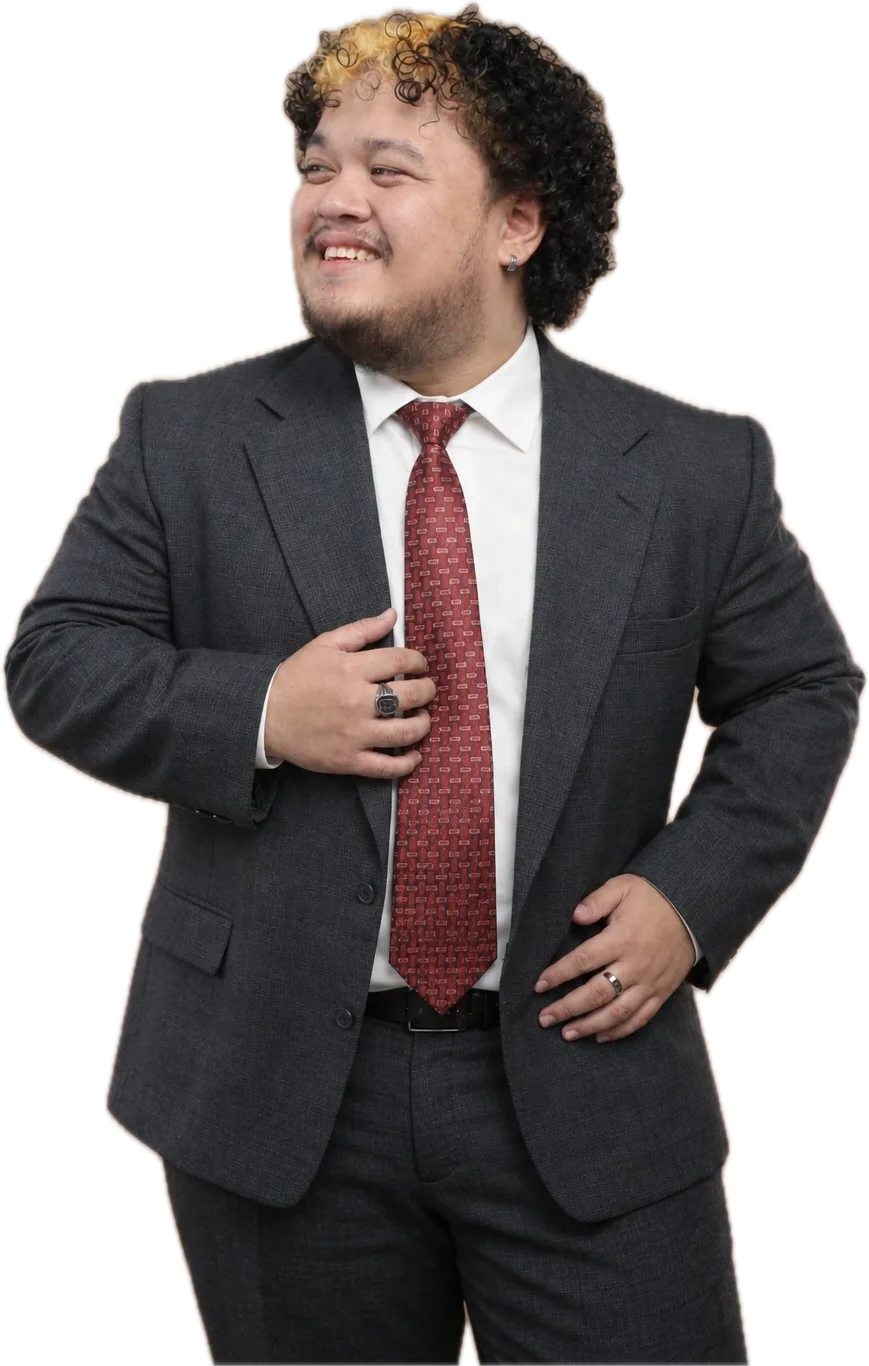
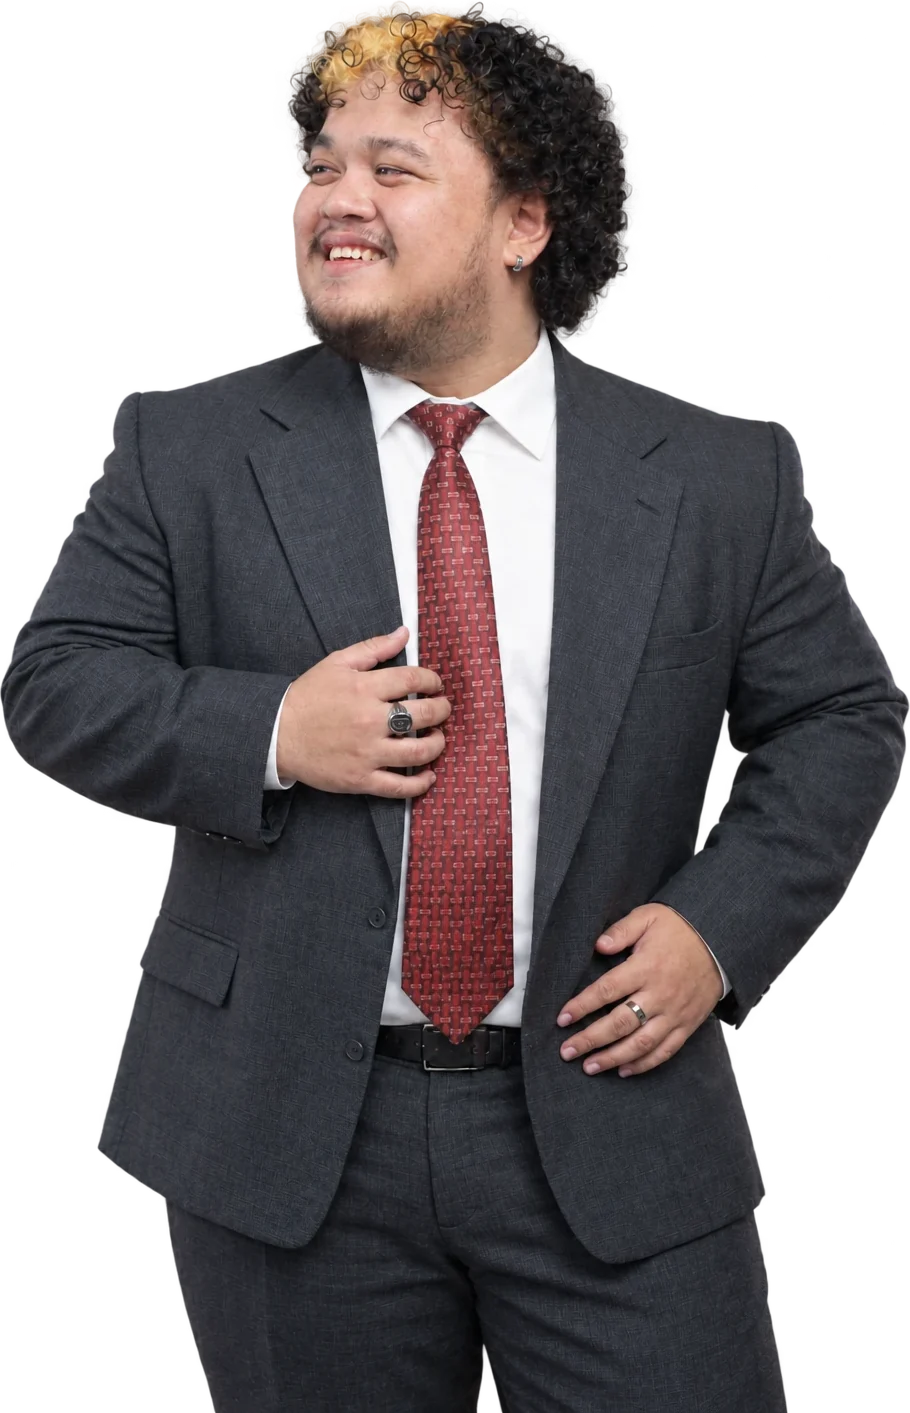
Use the new portrait and one sans-serif font throughout

diff --git a/style.css b/style.css
@@ -40,7 +40,7 @@ body {
 a { color: var(--accent); text-decoration: none; }
 a:hover { text-decoration: underline; }
 
-h1, h2, h3, h4 { font-family: "Cormorant Garamond", Georgia, serif; line-height: 1.15; }
+h1, h2, h3, h4 { font-weight: 600; line-height: 1.15; letter-spacing: -0.02em; }
 code { font-size: .88em; background: var(--tag-bg); padding: 1px 5px; border-radius: 4px; }
 
 /* ---------- Top bar ---------- */
@@ -57,7 +57,7 @@ code { font-size: .88em; background: var(--tag-bg); padding: 1px 5px; border-rad
   -webkit-backdrop-filter: blur(10px);
   border-color: var(--line);
 }
-.brand { font-family: "Cormorant Garamond", serif; font-weight: 700; font-size: 20px; letter-spacing: .12em; color: var(--text); }
+.brand { font-weight: 700; font-size: 15px; letter-spacing: .14em; color: var(--text); }
 .nav-links { display: flex; gap: 22px; font-size: 14px; font-weight: 500; }
 .nav-links a { color: var(--muted); }
 .nav-links a:hover { color: var(--accent); text-decoration: none; }
@@ -97,7 +97,7 @@ code { font-size: .88em; background: var(--tag-bg); padding: 1px 5px; border-rad
   animation: rise .9s .15s backwards;
 }
 .eyebrow { text-transform: uppercase; letter-spacing: .16em; font-size: 12px; color: var(--muted); margin: 0; }
-.hero h1 { font-size: clamp(48px, 7vw, 92px); margin: 10px 0 18px; font-weight: 700; }
+.hero h1 { font-size: clamp(42px, 5.6vw, 76px); margin: 12px 0 18px; font-weight: 700; letter-spacing: -0.04em; }
 .lede { font-size: 19px; color: var(--muted); max-width: 470px; margin: 0; }
 .hero-links { display: flex; flex-wrap: wrap; gap: 12px; margin-top: 30px; }
 .btn {
@@ -122,8 +122,8 @@ code { font-size: .88em; background: var(--tag-bg); padding: 1px 5px; border-rad
 /* ---------- Sections ---------- */
 section { padding: 80px 24px 40px; }
 .section-head { display: flex; align-items: baseline; gap: 14px; }
-.section-head h2 { font-size: 44px; margin: 0; }
-.num { color: var(--accent); font-family: "Cormorant Garamond", serif; font-size: 22px; letter-spacing: .1em; }
+.section-head h2 { font-size: 38px; margin: 0; letter-spacing: -0.03em; }
+.num { color: var(--accent); font-size: 14px; font-weight: 600; letter-spacing: .08em; font-variant-numeric: tabular-nums; }
 .section-note { color: var(--muted); margin: 10px 0 34px; max-width: 640px; }
 .hint-tap { display: none; }
 @media (hover: none) { .hint-hover { display: none; } .hint-tap { display: inline; } }
@@ -146,7 +146,7 @@ section { padding: 80px 24px 40px; }
 .card:hover, .card:focus-visible, .card.lit { border-color: var(--accent); transform: translateY(-3px); box-shadow: var(--shadow); }
 .icon { width: 40px; height: 40px; border-radius: 10px; background: var(--tag-bg); display: grid; place-items: center; margin-bottom: 16px; }
 .icon svg { width: 22px; height: 22px; fill: none; stroke: var(--accent); stroke-width: 1.6; stroke-linecap: round; stroke-linejoin: round; }
-.card h3 { font-size: 25px; margin: 0 0 6px; }
+.card h3 { font-size: 19px; margin: 0 0 6px; }
 .tagline { color: var(--muted); font-size: 15px; margin: 0 0 16px; }
 .card .detail { display: none; }
 
@@ -159,7 +159,7 @@ section { padding: 80px 24px 40px; }
   border: 1px solid var(--accent); border-radius: 16px;
   box-shadow: var(--shadow);
 }
-.peek h3, .modal h3 { font-size: 30px; margin: 0 0 4px; }
+.peek h3, .modal h3 { font-size: 23px; margin: 0 0 4px; }
 .peek p, .modal p { margin: 10px 0; font-size: 15px; }
 .peek ul, .modal ul { margin: 8px 0 14px; padding-left: 20px; font-size: 14.5px; }
 .peek li, .modal li { margin: 5px 0; }
@@ -191,7 +191,7 @@ section { padding: 80px 24px 40px; }
 .split { display: grid; grid-template-columns: 1fr 1fr; gap: 56px; align-items: center; margin-top: 40px; }
 .split + .split { margin-top: 110px; }
 .split.reverse .split-text { order: 2; }
-.kicker { font-size: 34px; margin: 0 0 14px; }
+.kicker { font-size: 26px; margin: 0 0 14px; }
 .split-text p { margin: 0 0 14px; }
 .list-intro { margin-top: 22px !important; font-weight: 600; }
 .now { padding-left: 20px; margin: 0; }
@@ -231,7 +231,7 @@ section { padding: 80px 24px 40px; }
 #vault-graph .hub circle { fill: var(--accent); }
 #vault-graph .subject circle { fill: var(--text); }
 #vault-graph text { fill: var(--muted); font: 500 11px Inter, sans-serif; text-anchor: middle; pointer-events: none; transition: fill .25s, opacity .25s; }
-#vault-graph .hub text { fill: var(--text); font: 700 15px "Cormorant Garamond", serif; }
+#vault-graph .hub text { fill: var(--text); font: 600 13px Inter, sans-serif; }
 #vault-graph .subject text { fill: var(--text); font-size: 12px; }
 #vault-graph g.node { cursor: pointer; }
 #vault-graph.focus g.node { opacity: .28; }
@@ -240,14 +240,14 @@ section { padding: 80px 24px 40px; }
 
 .interests { display: grid; grid-template-columns: repeat(3, 1fr); gap: 14px; margin-top: 30px; }
 .interests div { border-top: 2px solid var(--accent); padding-top: 8px; }
-.interests h4 { margin: 0; font-size: 19px; }
+.interests h4 { margin: 0; font-size: 14px; }
 .interests p { margin: 2px 0 0 !important; color: var(--muted); font-size: 13.5px; }
 
 /* ---------- Experience ---------- */
 .timeline { max-width: 720px; margin-top: 28px; }
 .timeline .item { border-left: 2px solid var(--line); padding: 0 0 24px 22px; position: relative; }
 .timeline .item::before { content: ""; position: absolute; left: -6px; top: 8px; width: 10px; height: 10px; border-radius: 50%; background: var(--accent); }
-.timeline h3 { font-size: 24px; margin: 0; }
+.timeline h3 { font-size: 18px; margin: 0; }
 .timeline .meta { color: var(--muted); font-size: 14px; margin: 2px 0 0; }
 .timeline p { margin: 6px 0 0; }
 .roles { margin: 8px 0 0; padding-left: 20px; }
@@ -268,13 +268,13 @@ footer { border-top: 1px solid var(--line); margin-top: 60px; padding: 28px 0 40
   .nav-links { gap: 14px; font-size: 13px; }
   .hero-stage { grid-template-columns: 1fr; grid-template-rows: 52vh auto; gap: 8px; padding: 64px 16px 0; align-content: start; }
   .hero-photo img { height: 52vh; }
-  .hero h1 { font-size: 48px; margin: 6px 0 10px; }
+  .hero h1 { font-size: 42px; margin: 6px 0 10px; }
   .lede { font-size: 16px; }
   .hero-links { margin-top: 18px; }
   .btn { padding: 8px 16px; font-size: 14px; }
   .scroll-hint { display: none; }
   .grid { grid-template-columns: 1fr; }
-  .section-head h2 { font-size: 38px; }
+  .section-head h2 { font-size: 32px; }
   .interests { grid-template-columns: 1fr; }
 }
 

diff --git a/index.html b/index.html
@@ -8,8 +8,8 @@
 <link rel="icon" href="img/avatar.jpg">
 <link rel="preconnect" href="https://fonts.googleapis.com">
 <link rel="preconnect" href="https://fonts.gstatic.com" crossorigin>
-<link href="https://fonts.googleapis.com/css2?family=Cormorant+Garamond:ital,wght@0,500;0,600;0,700;1,500&family=Inter:wght@400;500;600&display=swap" rel="stylesheet">
-<link rel="stylesheet" href="style.css?v=3">
+<link href="https://fonts.googleapis.com/css2?family=Inter:wght@400;500;600;700&display=swap" rel="stylesheet">
+<link rel="stylesheet" href="style.css?v=4">
 </head>
 <body>
 
@@ -27,7 +27,7 @@
   <div class="hero-stage">
     <div class="hero-photo">
       <div class="glow"></div>
-      <img src="img/lloyd.webp" alt="Lloyd in a dark suit and red tie, smiling" width="869" height="1366">
+      <img src="img/lloyd.webp" alt="Lloyd in a dark suit and red tie, smiling" width="910" height="1413">
     </div>
     <div class="hero-text">
       <p class="eyebrow">Leo Lloyd Catalan · Dumaguete City</p>
@@ -49,7 +49,7 @@
   <!-- PROJECTS -->
   <section id="projects" class="wrap">
     <div class="section-head reveal">
-      <span class="num">I</span>
+      <span class="num">01</span>
       <h2>Projects</h2>
     </div>
     <p class="section-note reveal">Most of these were built in October 2026 with Claude (Anthropic) as a pair
@@ -186,7 +186,7 @@
   <!-- ABOUT -->
   <section id="about" class="wrap">
     <div class="section-head reveal">
-      <span class="num">II</span>
+      <span class="num">02</span>
       <h2>About</h2>
     </div>
 
@@ -235,7 +235,7 @@
   <!-- EXPERIENCE -->
   <section id="experience" class="wrap">
     <div class="section-head reveal">
-      <span class="num">III</span>
+      <span class="num">03</span>
       <h2>Experience</h2>
     </div>
     <div class="timeline reveal">
@@ -276,6 +276,6 @@
   <div id="modal-body"></div>
 </dialog>
 
-<script src="script.js?v=3"></script>
+<script src="script.js?v=4"></script>
 </body>
 </html>
